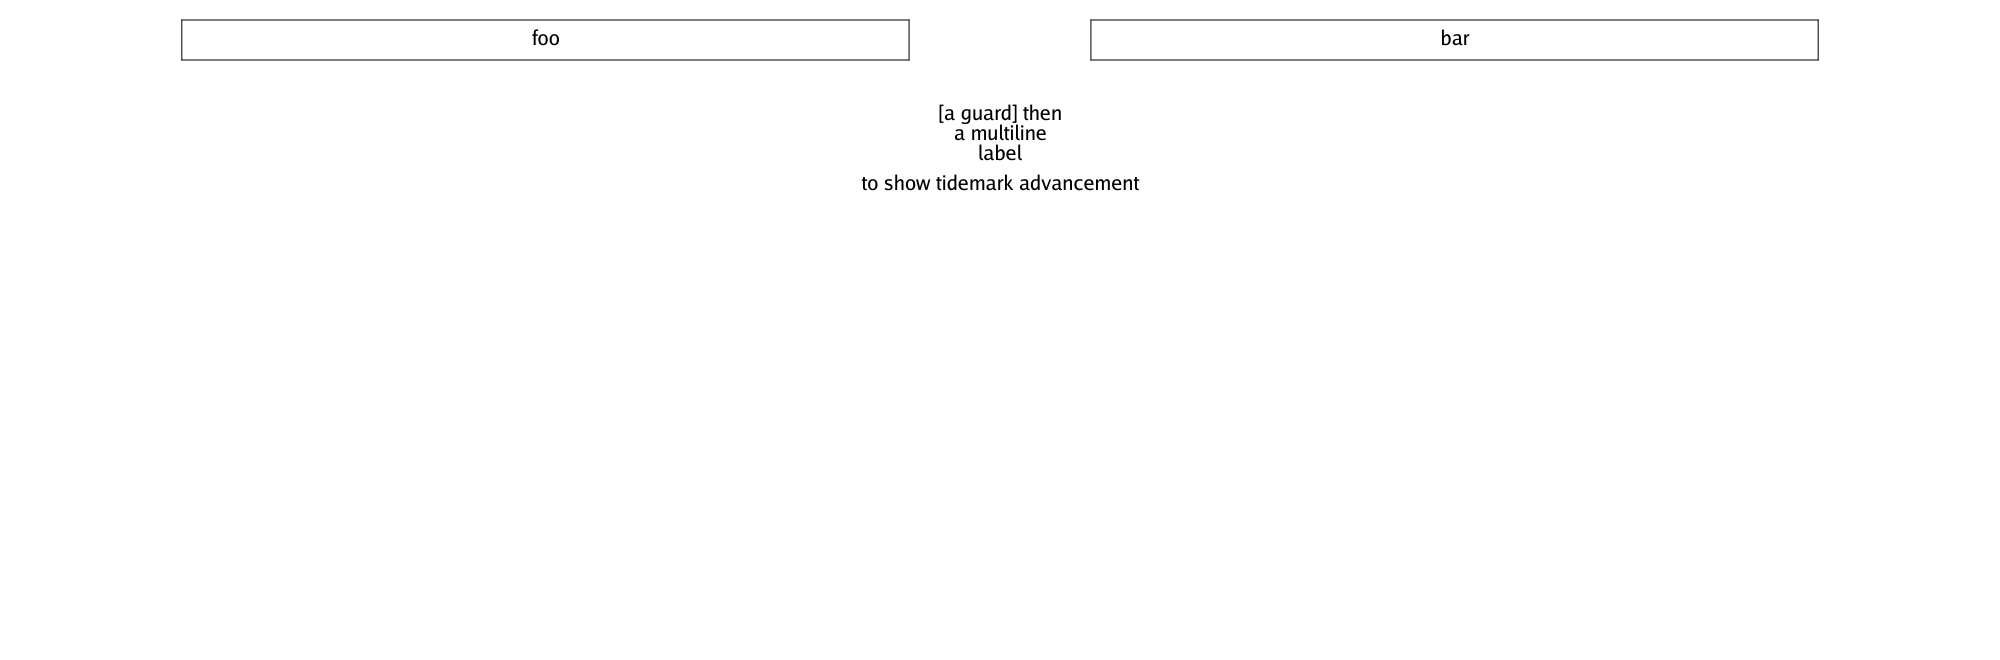
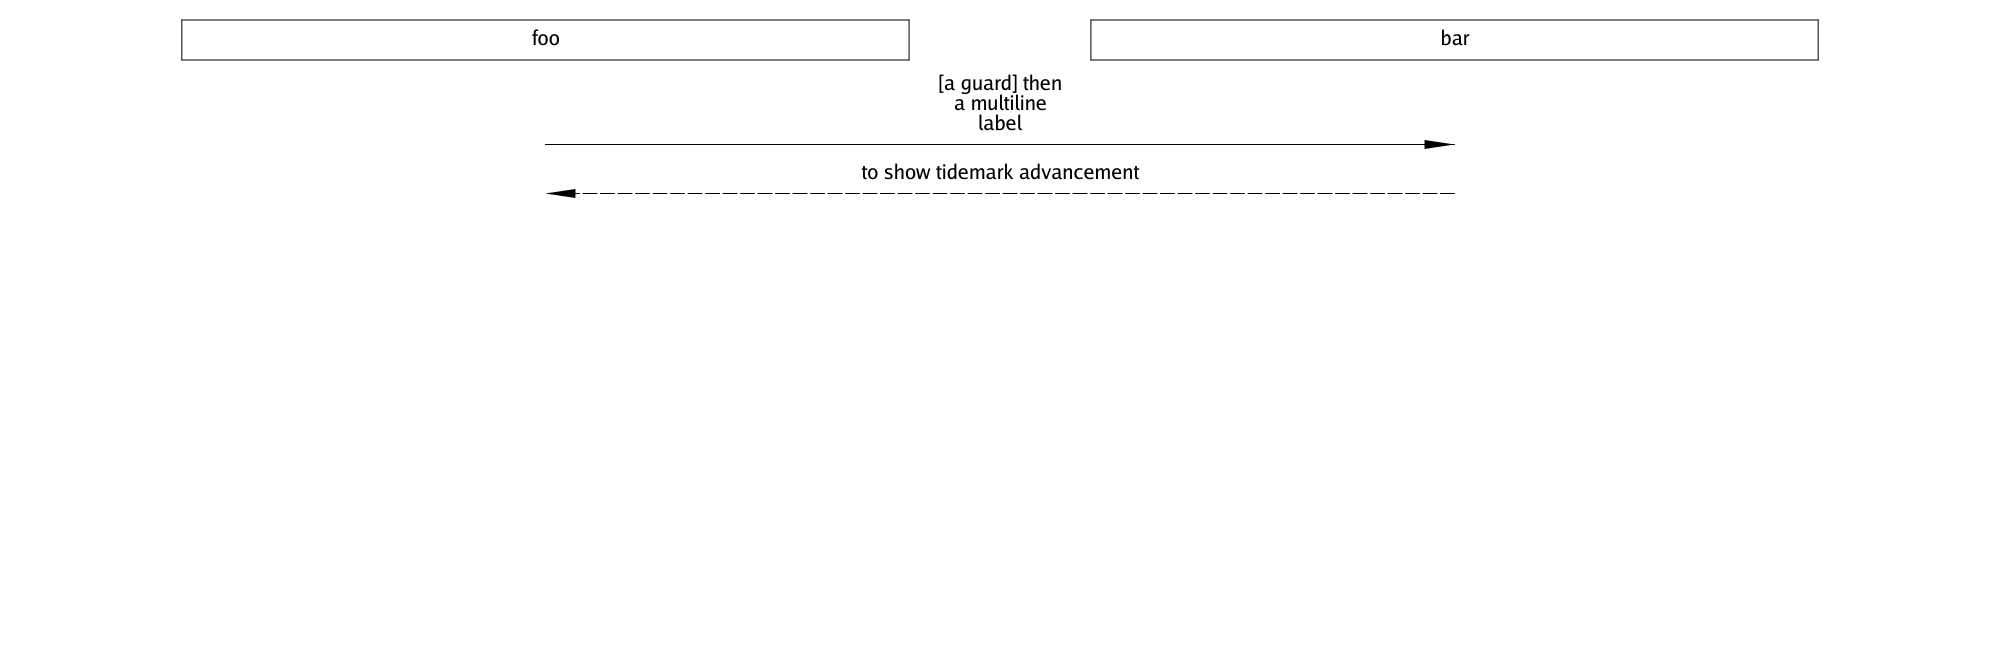
Include interaction lines with arrows on created diagrams

Changed region(s): [[0.434, 0.1212, 0.589, 0.303], [0.713, 0.2121, 0.744, 0.2424], [0.279, 0.2727, 0.31, 0.303]]

diff --git a/diag/creator.go b/diag/creator.go
@@ -1,6 +1,7 @@
 package diag
 
 import (
+	"github.com/peterhoward42/umli"
 	"github.com/peterhoward42/umli/dslmodel"
 	"github.com/peterhoward42/umli/graphics"
 	"github.com/peterhoward42/umli/sizers"
@@ -64,6 +65,7 @@ func (c *Creator) graphicsForDrawingEvent(
 	switch evt {
 	case EndBox:
 	case InteractionLine:
+		prims = c.interactionLine(statement)
 	case InteractionLabel:
 		prims = c.interactionLabel(statement)
 	case LaneLine:
@@ -87,8 +89,8 @@ func (c *Creator) laneTitleBox(
 	// First the rectangular box
 	left := thisLane.TitleBoxLeft
 	right := thisLane.TitleBoxRight
-	top := c.sizer.DiagPadT
-	bot := c.sizer.DiagPadT + c.sizer.Lanes.TitleBoxHeight
+	top := c.sizer.DiagramPadT
+	bot := c.sizer.DiagramPadT + c.sizer.Lanes.TitleBoxHeight
 	prims.AddRect(left, top, right, bot)
 	// Now the strings
 	nRows := len(statement.LabelSegments)
@@ -121,5 +123,23 @@ func (c *Creator) interactionLabel(
 	}
 	c.tideMark += float64(len(statement.LabelSegments))*
 		c.fontHeight + c.sizer.InteractionLineTextPadB
+	return prims
+}
+
+// interactionLine generates the horizontal line and arrow head.
+// It then claims the vertical space
+// it claims for itself by advancing the tide mark.
+func (c *Creator) interactionLine(
+	statement *dslmodel.Statement) (prims *graphics.Primitives) {
+	prims = graphics.NewPrimitives()
+	leftLane := statement.ReferencedLanes[0]
+	rightLane := statement.ReferencedLanes[1]
+	x1 := c.sizer.Lanes.Individual[leftLane].Centre
+	x2 := c.sizer.Lanes.Individual[rightLane].Centre
+	y := c.tideMark + 0.5 * c.sizer.ArrowHeight
+	prims.AddLine(x1, y, x2, y, statement.Keyword == umli.Dash)
+	arrowVertices := makeArrow(x1, x2, y, c.sizer)
+	prims.AddFilledPoly(arrowVertices)
+	c.tideMark += c.sizer.ArrowHeight + c.sizer.InteractionLinePadB
 	return prims
 }

diff --git a/sizers/sizer.go b/sizers/sizer.go
@@ -10,9 +10,12 @@ import (
 
 // Sizer is the top level sizing component.
 type Sizer struct {
-	DiagPadT                float64
+	DiagramPadT                float64
 	Lanes                   *Lanes
+	InteractionLinePadB     float64
 	InteractionLineTextPadB float64
+	ArrowLen	float64
+	ArrowHeight float64
 }
 
 // NewSizer provides a Sizer structure that has been initialised
@@ -20,9 +23,11 @@ type Sizer struct {
 func NewSizer(diagramWidth int, fontHeight float64,
 	statements []*dslmodel.Statement) *Sizer {
 	sizer := &Sizer{}
-	sizer.DiagPadT = diagramPadTK * fontHeight
+	sizer.DiagramPadT = diagramPadTK * fontHeight
 	sizer.Lanes = NewLanes(diagramWidth, fontHeight, statements)
-	sizer.InteractionLineTextPadB =
-		interactionLineTextPadBK * fontHeight
+	sizer.InteractionLinePadB = interactionLinePadBK * fontHeight
+	sizer.InteractionLineTextPadB = interactionLineTextPadBK * fontHeight
+	sizer.ArrowLen = arrowLenK * fontHeight
+	sizer.ArrowHeight = arrowAspectRatio * sizer.ArrowLen
 	return sizer
 }

diff --git a/diag/arrow.go b/diag/arrow.go
@@ -1,0 +1,26 @@
+package diag
+
+import (
+	"github.com/peterhoward42/umli/graphics"
+	"github.com/peterhoward42/umli/sizers"
+)
+
+// makeArrow assembles the vertices required to make a horizontal! 
+// arrow head polygon that has its tip at (x2, y), and points in 
+// the x1->x2 direction.
+func makeArrow(x1 float64, x2 float64, y float64,
+	sizer *sizers.Sizer) []*graphics.Point {
+	dx := sizer.ArrowLen
+	dy := 0.5 * sizer.ArrowHeight
+	var p1, p2, p3 *graphics.Point
+	if x2 > x1 {
+		p1 = graphics.NewPoint(x2 - dx, y - dy)
+		p2 = graphics.NewPoint(x2, y)
+		p3 = graphics.NewPoint(x2 - dx, y + dy)
+	} else {
+		p1 = graphics.NewPoint(x2 + dx, y - dy)
+		p2 = graphics.NewPoint(x2, y)
+		p3 = graphics.NewPoint(x2 + dx, y + dy)
+	}
+	return []*graphics.Point{p1, p2, p3}
+}

diff --git a/sizers/sizer_test.go b/sizers/sizer_test.go
@@ -12,7 +12,7 @@ func TestNewSizerComposesItselfProperly(t *testing.T) {
 	statements := parser.MustCompileParse("lane A foo")
 	sizer := NewSizer(2000, 20.0, statements)
 	// Check some top-level attributes.
-	assert.InDelta(20.0, sizer.DiagPadT, 0.1)
+	assert.InDelta(20.0, sizer.DiagramPadT, 0.1)
 	assert.InDelta(2000.0, sizer.Lanes.DiagramWidth, 0.1)
 	assert.Equal(statements[0], sizer.Lanes.LaneStatements[0])
 	// Have the embedded ndividual lane sizing data structures been

diff --git a/sizers/settings.go b/sizers/settings.go
@@ -21,5 +21,10 @@ const (
 	titleBoxPadBK     = 0.5  // Below entire title box
 
 	// Full and Dashed interaction lines
+
+	// Below the line itself - including allowance for the arrow height.
+	interactionLinePadBK     = 0.5
 	interactionLineTextPadBK = 0.5 // Below the text on an interaction line
+	arrowLenK                = 1.5
+	arrowAspectRatio         = 0.4 // Width of arrow head w.r.t. length
 )

diff --git a/graphics/primitives.go b/graphics/primitives.go
@@ -6,6 +6,11 @@ type Point struct {
 	Y float64
 }
 
+// NewPoint creates a Point ready to use.
+func NewPoint(x, y float64) *Point {
+	return &Point{x, y}
+}
+
 // Line represents a line, optionally dashed.
 type Line struct {
 	P1     *Point
